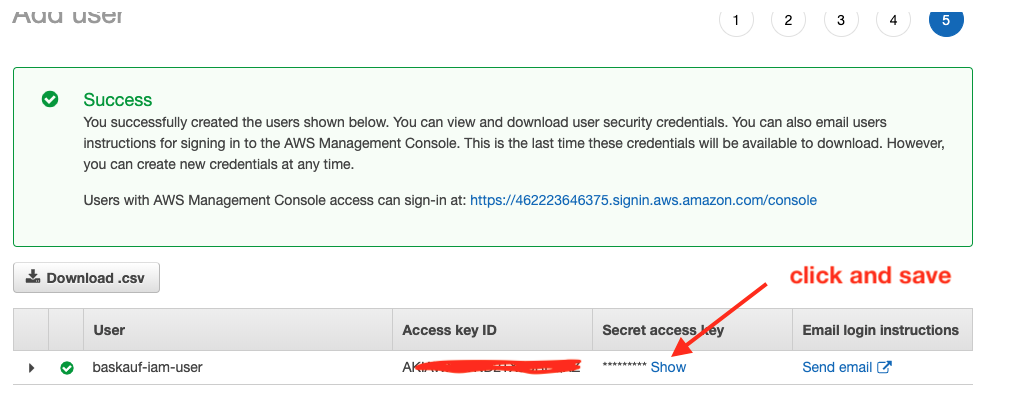
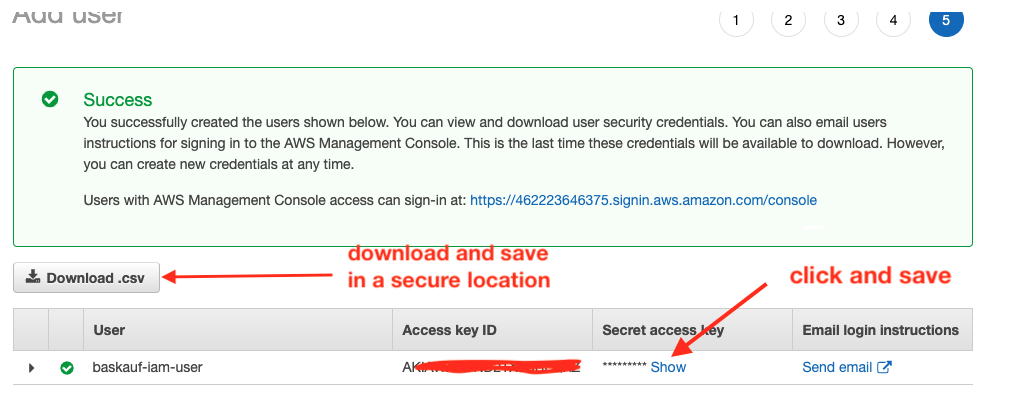
Add page on S3 buckets

Changed region(s): [[0.3356, 0.5911, 0.5492, 0.7094], [0.1526, 0.6502, 0.3356, 0.7094]]

diff --git a/host/aws/security.md b/host/aws/security.md
@@ -12,14 +12,12 @@ One of the key features of AWS is that it incorporates security features through
 
 The root account is created at the time an account is established with AWS.  By default, it's associated with the email address used to create the account.
 
-By default, the root account has full privileges for most actions possible in AWS.  For that reason, it would be disasterous for it to be hacked.  There are several actions that should be taken to keep the root account secure:
+By default, the root account has full privileges for most actions possible in AWS.  For that reason, it would be disastrous for it to be hacked.  There are several actions that should be taken to keep the root account secure:
 
 1. Have a strong password
 2. Use multifactor authentication (MFA)
 3. Delete the access keys associated with the root account.
 4. Create and routinely use other Identity and Access Management (IAM) users.
-
-<img src="../images/security.png" style="border:1px solid black">
 
 When accessing a newly created account, AWS will suggest that you take these actions and provide links for doing so.
 
@@ -29,15 +27,55 @@ Access keys are long, random strings assigned to users that allows them to acces
 
 Clearly access keys are a powerful thing that can be misused if they are stolen.  The good thing is that they can be revoked and regenerated at any time.  
 
-The best practice is to delete the powerful access keys of the root user and create access keys for IAM users with limited privileges that are specific to a particular project. 
+The best practice is to delete the powerful access keys of the root user and create access keys for IAM users with limited privileges that are specific to a particular project. You'll have a chance to delete your root user keys later.
 
-## Creating an IAM user
+
 
 To create a user for a specific task, click on Services, then search for IAM.  
 
 <img src="../images/security.png" style="border:1px solid black">
 
+On the dashboard page, you'll see a URL that you can bookmark to take you directly to the login page for your account.  That is the page where the IAM users you create can log in directly, so you should bookmark it. 
 
+## Deleting your root access keys
+
+From the Security Status menu, you should select `Delete your root access keys` and follow the directions to do that.
+
+## Creating an IAM user
+
+On this page, you'll also see a prompt to create individual IAM users.  Click on the "Create individual IAM users" link, or `users` in the menu on the left..
+
+<img src="../images/add-user-button.png" style="border:1px solid black">
+
+Click on the `Add user` button.
+
+<img src="../images/add-user-dialog.png" style="border:1px solid black">
+
+In the first step of creating the user, you can assign a name to the user.  Optimally the name should reflect the tasks that user will be authorized to perform.  In this example, we are creating a generic user that can do a number of common tasks, but that has fewer privileges than the root user.  If the user is only going to interact directly through the Internet using API keys, check only `Programmatic access`.  If you want the user to also be able to log in to the website, check the second box.   If you are going to be the primary person to use that user account, you can just enter a custom password at this point.  If you are generating the account for someone else to use, select `Autogenerated password` with the option requiring password reset.  
+
+In the step for adding permissions for the user, click on the `Attach existing policies directly` tab.  Set the following permissions IAMCreateRole, AmazonS3FullAccess, AmazonEC2FullAccess, AmazonTranscribeFullAccess, AWSLambdaFullAccess, CloudWatchFullAccess, and AmazonTextractFullAccess. Because there are so many policies, the easiest thing is to paste the permission from the list above into the search box, then check its box when it is listed.  Repeat for all of the permissions.  You can always add permissions later if you discover that the user isn't able to do something that it needs to do.
+
+You can skip adding tags.  On the review page, click the `Create user` button at the bottom.
+
+<img src="../images/user-creds.png" style="border:1px solid black">
+
+After you successfully create the user, you need to capture the user's credentials.  If you are creating the user for someone else, you can click on the `Send email` link.  That will generate an email with the login URL and username, but NOT the password.  The password should be provided to the person via a secure means such as an encrypted Keybase message (NOT by email) or on paper. If the user is going to use access keys (likely) the keys should be shown and copied while this page is visible.  Once the page has been closed, it will no longer be possible to get any of the account access information (keys or password).  Clicking the `Download .csv` button is the easiest way to store or transfer all of this information.  The CSV file contains the username, password, access keys, and console loging links.  Care should be taken to store this file in a secure location to prevent unauthorized access to your account.  
+
+One advantage of creating users like this for routine work is that if the IAM user account is compromised, you can just delete the user entirely and re-create it. If only the keys are compromised, you can regenerate them as shown below.
+
+After completing the process of creating the IAM user, you will be on the user page.  That's the page where you can delete the user or click on the user name to change its properies.
+
+<img src="../images/user-permissions-summary.png" style="border:1px solid black">
+
+After clicking on the user name, you'll see the permissions allowed for that user.  Here's where you can add additional permissions for the user.  This page also has the user ARN, a identifier for the user that is unique within the AWS system.  You can use the user ARN to restrict operations to particular users.  
+
+<img src="../images/user-access.png" style="border:1px solid black">
+
+Clicking on the `Security credentials` tab takes you to the page wher you can create, temporarily deactivate, or delete the IAM user's key.  In cases where security is critical, you should periodically "rotate" (delete and recreate) the access keys in the event that the key has been compromised without you knowing it.
+
+## Other security measures
+
+It's a good idea to institute the other suggested security measures, especially multi-factor authentication (MFA).  However, you will first need to instally an app like Google Authenticator first.
 
 ----
 Revised 2019-10-31

diff --git a/host/aws/website.md b/host/aws/website.md
@@ -1,0 +1,70 @@
+---
+permalink: /host/aws/website/
+title: Static website on AWS
+breadcrumb: website
+---
+
+# Accessing bucket objects via HTTPS
+
+To allow access to an object in a bucket through HTTPS, you must make both the bucket and the object within it publically accessible.
+
+## Unblock public access to bucket
+
+You can edit public access for bucket when creating the bucket or afterwards.
+
+Uncheck "Block all public access".
+
+## Make an object publically available
+
+Upload an image:
+
+Select the image, but click `Next` rather than `Upload`.
+
+<img src="../images/grant-access.png" style="border:1px solid black">
+
+In the Set permissions step, grant public read access.
+
+<img src="../images/set-properties.png" style="border:1px solid black">
+
+In the Set permissions step, set the Content-Type header to an appropriate value and click Save. (You might be able to get away with skipping this step depending on the type of file.)
+
+Then click upload.
+
+<img src="../images/image-listing.png" style="border:1px solid black">
+
+Click on the name of the image in the file listing.
+
+<img src="../images/object-url.png" style="border:1px solid black">
+
+Copy the Object URL and paste it into a new tab of your browser.  The image should display in the browser.
+
+## Making a web page
+
+Using a text or code editor (TextEdit for Mac, Notepad for Windows, or a code editor like VSCode), paste the following:
+
+```
+<html>
+  <body>
+    <h1>My Awesome Website</h1>
+    <img src="logo.jpg"/>
+    <p>My organization has a great logo.</p>
+  </body>
+</html>
+```
+
+Substitute the name of the image you uploaded in place of "logo.png". Save the file somewhere where you can find it.
+
+Upload the `index.html` file as you did the image, except for the Content-Type header use `text/html`.
+
+Find the object URL as you did before and paste into your browser.
+
+<img src="../images/web-page.png" style="border:1px solid black">
+
+Your web page should show up in the browser window.
+
+# Creating a more sophisticated website
+
+This is just a quick and dirty web page.  For creating a real static website using S3, you will probably want to do some more sophisticated things like associating a domain name with the site, redirects from similar subdomains, tracking usage, etc.  AWS has built in capabilities for doing all of these things.  See [this page](https://docs.aws.amazon.com/AmazonS3/latest/dev/WebsiteHosting.html) to get started.
+
+----
+Revised 2019-10-31

diff --git a/host/aws/index.md b/host/aws/index.md
@@ -8,7 +8,9 @@ breadcrumb: AWS
 
 AWS offers [many services](https://aws.amazon.com/) for deploying applications in the cloud.  They include Simple Storage Service (S3), Elastic Compute Cloud (EC2) cloud servers, simple DynamoDB NoSQL databases, and Lambda serverless computing. 
 
-For more information, go to [this page](security/)
+For information on security in AWS, go to [this page](security/)
+
+For information on uploading files to S3 buckets and creating a static website, see [this page](website/)
 
 ## Getting started
 
